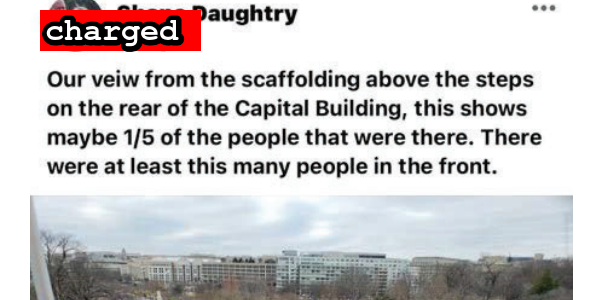
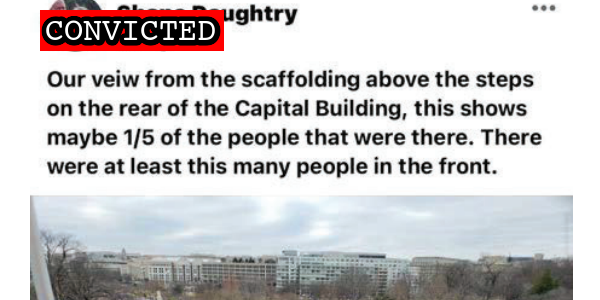
Latest import

Changed region(s): [[0.06, 0.03, 0.39, 0.18]]

diff --git a/commands/suspect-import.ts b/commands/suspect-import.ts
@@ -481,6 +481,8 @@ const linkType = (description: string, lastName?: string) => {
 
     case /Government Motion for Emergency Appeal of Release Order/.test(description):
     case /Governments Motion for Emergency Stay and for Review and Appeal of Release Order/.test(description):
+    case /Government Motion for Emergency Stay and for Review of Release Order/.test(description):
+    case /Government Motion for Emergency Stay and Revocation of Release Order/.test(description):
       return "Government Motion for Emergency Appeal of Release Order";
 
     case /Application for Search Warrant/.test(description):
@@ -506,6 +508,7 @@ const linkType = (description: string, lastName?: string) => {
     case /Government's Opposition to Defendant's Motion for Reconsideration of Detention/.test(description):
     case /Government's Omnibus Opposition to Defendants' Motions for Release from Custody/.test(description):
     case /Government Opposition to Motion for Reconsideration of Motion for Conditional Release/.test(description):
+    case /Government Opposition to Motion for Reconsideration of Revocation of Bond/.test(description):
       return "Government Opposition to Reconsideration of Release";
 
     case /Supplement to Government's Opposition to Defendant's Motion for Conditional Release/.test(description):
@@ -563,6 +566,7 @@ const linkType = (description: string, lastName?: string) => {
     case /Defense Motion for Reconsideration of Conditions of Release/.test(description):
     case /Defense Motion for Reconsideration of Bond/.test(description):
     case /Motion to Reopen Detention Hearing and for Release on Conditions/.test(description):
+    case /Defense Motion for Reconsideration of Revocation of Bond/.test(description):
       return "Defense Motion for Reconsideration of Release";
 
     case /Defendant's Motion for a Bill of Particulars/.test(description):

diff --git a/docs/_suspects/douglas-jensen.md b/docs/_suspects/douglas-jensen.md
@@ -33,19 +33,22 @@ layout: suspect
 published: true
 caseNumber: 1:21-cr-6
 videos:
-  - title: Gov_t Exhibit A.MOV (0:00:10)
-    url: https://propublica-data-j6cases-videos.s3.us-east-1.amazonaws.com/e3987df0ce2c013960702cde48001122.mp4
-  - title: Gov_t Exhibit C.MOV (0:00:18)
-    url: https://propublica-data-j6cases-videos.s3.us-east-1.amazonaws.com/e5195130ce2c013960702cde48001122.mp4
-  - title: Gov_t Exhibit B.MOV (0:00:05)
-    url: https://propublica-data-j6cases-videos.s3.us-east-1.amazonaws.com/e7490c30ce2c013960702cde48001122.mp4
+- title: Gov_t Exhibit A.MOV (0:00:10)
+  url: https://propublica-data-j6cases-videos.s3.us-east-1.amazonaws.com/e3987df0ce2c013960702cde48001122.mp4
+- title: Gov_t Exhibit C.MOV (0:00:18)
+  url: https://propublica-data-j6cases-videos.s3.us-east-1.amazonaws.com/e5195130ce2c013960702cde48001122.mp4
+- title: Gov_t Exhibit B.MOV (0:00:05)
+  url: https://propublica-data-j6cases-videos.s3.us-east-1.amazonaws.com/e7490c30ce2c013960702cde48001122.mp4
 charges:
 sentence:
 ---
-
 - [News Report](https://www.desmoinesregister.com/story/news/2021/01/09/fbi-arrests-des-moines-man-who-us-capitol-riot-booked-into-polk-county-jail-washington-dc/6607953002/)
 - [Self Incrimination](https://heavy.com/news/doug-jensen/)
 - [Indictment](https://www.justice.gov/usao-dc/case-multi-defendant/file/1417006/download)
 - [Complaint](https://www.justice.gov/opa/page/file/1353386/download)
 - [Statement of Facts](https://www.justice.gov/opa/page/file/1353376/download)
 - [Incriminating Evidence (Video)](https://twitter.com/ryanjreilly/status/1414816114018762754)
+- [DOJ Press Release](https://extremism.gwu.edu/sites/g/files/zaxdzs2191/f/Douglas%20Austin%20Jensen%20Government%20Opposition%20to%20Motion%20for%20Reconsideration%20of%20Revocation%20of%20Bond.pdf)
+- [Government Motion for Emergency Appeal of Release Order](https://extremism.gwu.edu/sites/g/files/zaxdzs2191/f/Douglas%20Austin%20Jensen%20Govt%20Motion%20for%20Emergency%20Stay%20and%20for%20Review%20of%20Release%20Order.pdf)
+- [Defense Motion for Reconsideration of Release](https://extremism.gwu.edu/sites/g/files/zaxdzs2191/f/Douglas%20Austin%20Jensen%20Defense%20Motion%20for%20Reconsideration%20of%20Revocation%20of%20Bond.pdf)
+- [Government Opposition to Reconsideration of Release](https://extremism.gwu.edu/sites/g/files/zaxdzs2191/f/Douglas%20Austin%20Jensen%20Government%20Opposition%20to%20Motion%20for%20Reconsideration%20of%20Revocation%20of%20Bond.pdf)

diff --git a/docs/_suspects/treniss-evans.md b/docs/_suspects/treniss-evans.md
@@ -4,15 +4,15 @@ lastName: Evans
 hashtag: BullhornCanary
 aka:
 residence: Texas
-status: Indicted
+status: Convicted
 date: 2021-02-24
 charged: 2021-02-24
 indicted: 2021-03-17
-convicted:
+convicted: 2022-03-10
 sentenced:
 dismissed:
 deceased:
-plea_hearing:
+plea_hearing: 2022-03-10
 sentencing:
 age: 46
 occupation:
@@ -34,9 +34,15 @@ published: true
 caseNumber: 1:21-cr-225
 videos:
 charges:
+  - code: 18 USC § 1752(a)(1)
+    title: Entering a restricted building or grounds
+    url: https://www.law.cornell.edu/uscode/text/18/1752
+    felony: false
 sentence:
 ---
+
 - [News Report](https://www.ksat.com/news/local/2021/03/09/san-antonio-area-man-charged-in-us-capitol-riot-allegedly-took-shots-of-whiskey-in-pelosis-office/)
-- [Statement of Facts](https://www.justice.gov/usao-dc/case-multi-defendant/file/1378611/download)
+- [Statement of Facts](https://www.justice.gov/usao-dc/case-multi-defendant/file/1482086/download)
 - [Complaint](https://www.justice.gov/usao-dc/case-multi-defendant/file/1378616/download)
 - [Indictment](https://www.justice.gov/usao-dc/case-multi-defendant/file/1378621/download)
+- [Plea Agreement](https://www.justice.gov/usao-dc/case-multi-defendant/file/1482081/download)

diff --git a/docs/_suspects/james-bonet.md b/docs/_suspects/james-bonet.md
@@ -34,18 +34,18 @@ published: true
 caseNumber: 1:21-cr-121
 videos:
 charges:
-  - code: 18 USC § 1752(a)(1)
-    title: Entering a restricted building or grounds
-    url: https://www.law.cornell.edu/uscode/text/18/1752
-    felony: false
+- code: 18 USC § 1752(a)(1)
+  title: Entering a restricted building or grounds
+  url: https://www.law.cornell.edu/uscode/text/18/1752
+  felony: false
 sentence:
   - 90 days in prison
   - $500 restitution
 ---
-
 - [News Report](https://www.timesunion.com/news/article/No-weed-for-Glens-Falls-man-charged-in-attack-on-15903349.php)
 - [Complaint](https://www.justice.gov/opa/page/file/1361446/download)
 - [Statement of Facts](https://www.justice.gov/usao-dc/case-multi-defendant/file/1441156/download)
 - [Information](https://www.justice.gov/usao-dc/case-multi-defendant/file/1371606/download)
 - [Indictment](https://www.justice.gov/usao-dc/case-multi-defendant/file/1416916/download)
 - [Plea Agreement](https://www.justice.gov/usao-dc/case-multi-defendant/file/1441151/download)
+- [Sentencing Memo](https://extremism.gwu.edu/sites/g/files/zaxdzs2191/f/James%20Bonet%20Defense%20Sentencing%20Memorandum.pdf)

diff --git a/docs/_suspects/michael-daughtry.md b/docs/_suspects/michael-daughtry.md
@@ -4,15 +4,15 @@ lastName: Daughtry
 hashtag: MichaelDaughtry
 aka:
 residence: Georgia
-status: Charged
+status: Convicted
 date: 2021-01-15
 charged: 2021-01-15
 indicted:
-convicted: 
-sentenced: 
-dismissed: 
+convicted: 2022-03-10
+sentenced:
+dismissed:
 deceased:
-plea_hearing:
+plea_hearing: 2022-03-10
 sentencing:
 age: 58
 occupation:
@@ -34,9 +34,15 @@ published: true
 caseNumber: 1:21-cr-141
 videos:
 charges:
+  - code: 18 USC § 1752(a)(1)
+    title: Entering a restricted building or grounds
+    url: https://www.law.cornell.edu/uscode/text/18/1752
+    felony: false
 sentence:
 ---
+
 - [News Report](https://www.walb.com/2021/01/19/pelham-man-charged-capitol-incident/)
 - [Complaint](https://www.justice.gov/opa/page/file/1356031/download)
 - [Statement of Facts](https://www.justice.gov/opa/page/file/1356026/download)
 - [Information](https://www.justice.gov/usao-dc/case-multi-defendant/file/1377691/download)
+- [Plea Agreement](https://www.justice.gov/usao-dc/case-multi-defendant/file/1482056/download)

diff --git a/docs/_suspects/katharine-morrisson.md b/docs/_suspects/katharine-morrisson.md
@@ -1,0 +1,41 @@
+---
+name: Katharine Morrisson
+lastName: Morrisson
+hashtag:
+aka: Kate Morrisson
+residence: New York
+status: Indicted
+date: 2022-02-02
+charged: 2022-02-02
+indicted: 2022-02-02
+convicted:
+sentenced:
+dismissed:
+deceased:
+plea_hearing:
+sentencing:
+age:
+occupation:
+affiliations:
+jurisdiction: Federal
+image: /images/preview/katharine-morrisson.jpg
+suspect: katharine-morrisson.jpg
+booking:
+courtroom:
+courthouse:
+raid:
+perpwalk:
+quote:
+title: Katharine Morrisson charged on February 2, 2022
+description: Click for latest case details. Suspects innocent until proven guilty.
+author: seditiontrack
+layout: suspect
+published: false
+caseNumber:
+videos:
+charges:
+sentence:
+---
+
+- [News Report]()
+- [Indictment](https://extremism.gwu.edu/sites/g/files/zaxdzs2191/f/Dale%20Shalvey%20Tara%20Stottlemyer%20and%20Katharine%20Morrison%20Fourth%20Superseding%20Indictment.pdf)

diff --git a/docs/_suspects/matthew-beddingfield.md b/docs/_suspects/matthew-beddingfield.md
@@ -41,3 +41,5 @@ sentence:
 - [Statement of Facts](https://www.justice.gov/usao-dc/case-multi-defendant/file/1470316/download)
 - [Detention Order](https://extremism.gwu.edu/sites/g/files/zaxdzs2191/f/Matthew%20Jason%20Beddingfield%20Government%20Motion%20Requesting%20Pretrial%20Detention%20Order.pdf)
 - [Defense Motion for Release](https://extremism.gwu.edu/sites/g/files/zaxdzs2191/f/Matthew%20Jason%20Beddingfield%20Defense%20Motion%20For%20Release.pdf)
+- [DOJ Press Release](https://extremism.gwu.edu/sites/g/files/zaxdzs2191/f/Matthew%20Jason%20Beddingfield%20Government%20Motion%20For%20Emergency%20Stay%20and%20Revocation%20of%20Release%20Order.pdf)
+- [Government Motion for Emergency Appeal of Release Order](https://extremism.gwu.edu/sites/g/files/zaxdzs2191/f/Matthew%20Jason%20Beddingfield%20Government%20Motion%20For%20Emergency%20Stay%20and%20Revocation%20of%20Release%20Order.pdf)

diff --git a/docs/_suspects/john-schubert.md b/docs/_suspects/john-schubert.md
@@ -44,3 +44,4 @@ sentence:
 - [Statement of Facts](https://www.justice.gov/usao-dc/case-multi-defendant/file/1417746/download)
 - [Plea Agreement](https://storage.courtlistener.com/recap/gov.uscourts.dcd.235718/gov.uscourts.dcd.235718.15.0_1.pdf)
 - [Information](https://extremism.gwu.edu/sites/g/files/zaxdzs2191/f/John%20Schubert%20Jr%20Information.pdf)
+- [Sentencing Memo](https://extremism.gwu.edu/sites/g/files/zaxdzs2191/f/John%20Schubert%20Jr%20Defense%20Sentencing%20Memorandum.pdf)

diff --git a/docs/_suspects/amy-schubert.md b/docs/_suspects/amy-schubert.md
@@ -45,3 +45,4 @@ sentence:
 - [Incriminating Evidence (Video)](https://youtu.be/PfiS8MsfSF4?t=1105)
 - [Plea Agreement](https://www.justice.gov/usao-dc/case-multi-defendant/file/1459286/download)
 - [Information](https://extremism.gwu.edu/sites/g/files/zaxdzs2191/f/Amy%20Schubert%20Information.pdf)
+- [Sentencing Memo](https://extremism.gwu.edu/sites/g/files/zaxdzs2191/f/Amy%20Schubert%20Defense%20Sentencing%20Memorandum.pdf)
